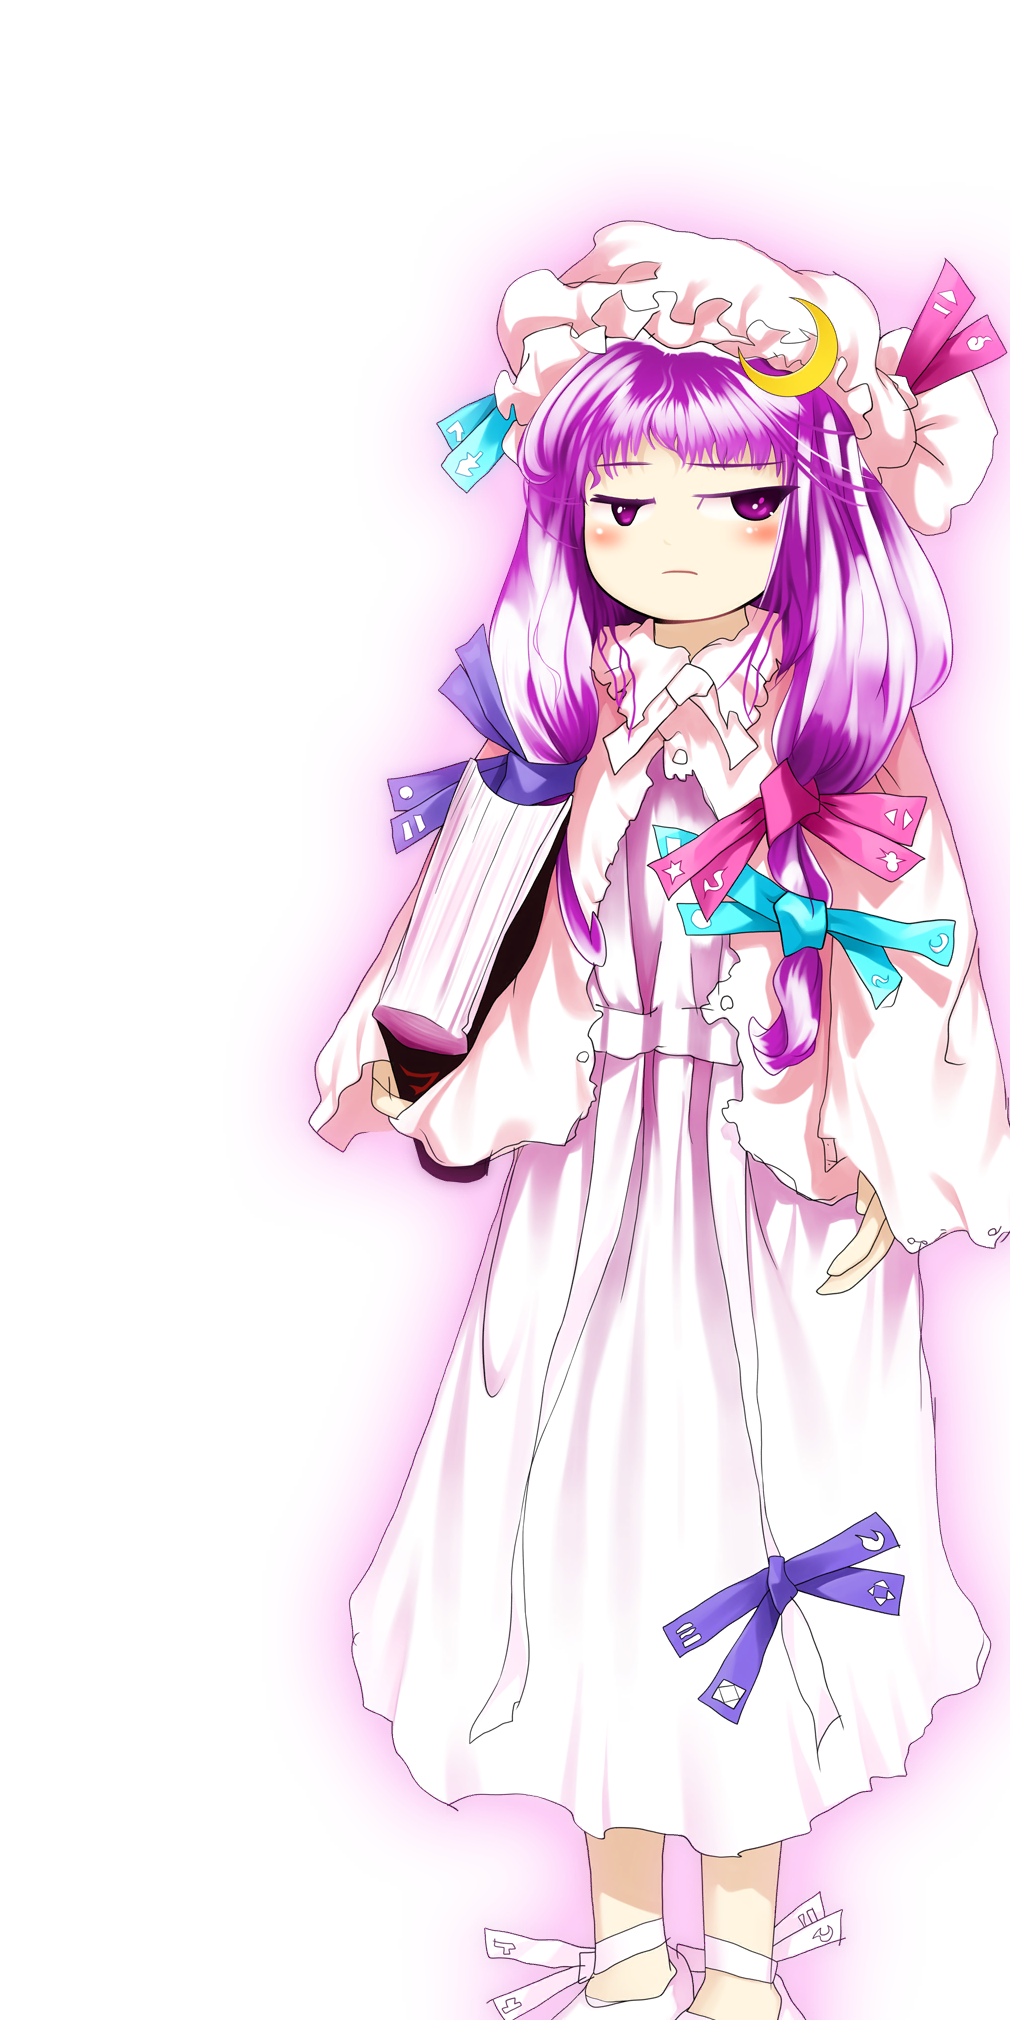
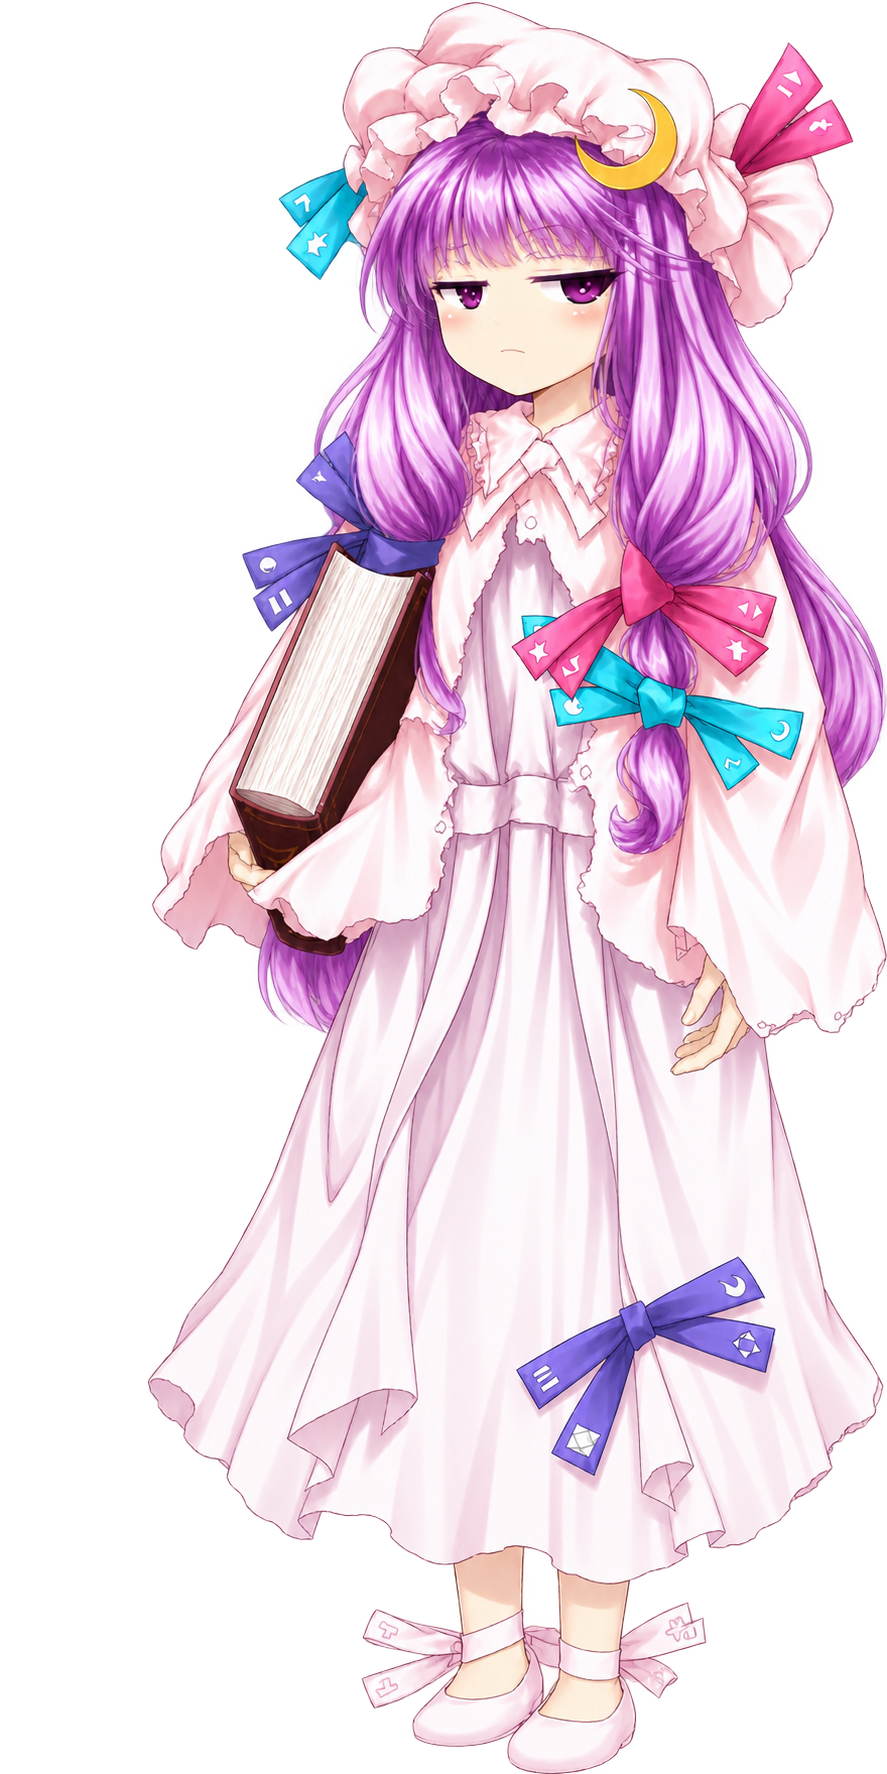
assets(stage): 现代化重绘二至六面角色立绘
替换五位 Boss 的 16 张独立差分及六面复用的两张咲夜立绘，保持原有姿态、神态、角色装饰和战损细节；手部按自然掌指比例重新绘制，蕾米莉亚两张差分补齐完整覆肩短袖。

保留透明通道、原文件名和差分编号，同步生成提示词、源图溯源、验收记录及素材注释。

验证：Debug 构建、CTest 2/2、全部 34 个已注册立绘路径的透明通道/GPU 加载/取景/卸载检查、整组视觉复核及咲夜复用文件一致性检查均通过。

diff --git a/src/stages/stage2/manifest.cpp b/src/stages/stage2/manifest.cpp
@@ -1,4 +1,4 @@
-// 本文件将二面演员、琪露诺原包立绘及本关音乐绑定到独立素材清单，公共玩家槽由共享模块提供。
+// 本文件将二面演员、琪露诺原姿态现代重绘立绘及本关音乐绑定到独立素材清单，公共玩家槽由共享模块提供。
 #include "stages/stage2/data.hpp"
 #include "stages/stage2/ids.hpp"
 #include "stages/common/assets.hpp"

diff --git a/docs/STAGE_PORTRAITS.md b/docs/STAGE_PORTRAITS.md
@@ -1,0 +1,26 @@
+# 已接入立绘的现代重绘
+
+全关对话沿用原有差分编号和动作，使用统一的现代日系插画画风。重绘只替换对话及符卡 PNG；战斗本体仍使用原始 DDS/ANM。
+
+| 角色 | 独立差分 | 保留的重点 |
+|---|---:|---|
+| 灵梦 | 6 | 已有现代重绘，红白装束、头结、侧发饰与原动作/神态 |
+| 魔理沙 | 6 | 已有现代重绘，魔女帽、金发、围裙与原动作/神态 |
+| 露米娅 | 4 | 已有现代重绘，红结、黑白衣装、平伸双臂与原神态 |
+| 琪露诺 | 2 | 蓝色大头结、冰晶翼、红领结、裙摆锯齿、托掌手势及微笑/生气差分 |
+| 红美铃 | 4 | 「龍」字星形帽徽、红发双辫黑结、盘扣、回纹边饰、腕环、提裙手势及战损绷带 |
+| 帕秋莉 | 4 | 新月帽饰、原色彩带及纹样、长裙、持书/举书遮脸、半睁眼与战损表情 |
+| 咲夜 | 4 | 女仆头饰、双辫绿结、绿领结、围裙、三把飞刀、腿部刀鞘及交叠手势 |
+| 蕾米莉亚 | 2 | 完整覆肩短袖、帽上红结、蝙蝠翼、红色后腰大结、颈饰、腕部褶边、垂腕抬手及睁眼/闭眼神态 |
+
+32 张独立差分对应 34 个已注册 PNG 路径；其中咲夜的两个道中差分同时用于五、六面，文件内容保持一致。原有 `dialogueCrop` 继续取上部，符卡使用完整立绘；PNG 的透明边界由资源加载器按原规则处理。
+
+本次新生成 16 张独立差分并替换 18 个文件。生成方式为内置 `image_gen`，完整提示及溯源见 [生成记录](../assets/source/portraits/stages2_6/README.md) 和 [提示词](../assets/source/portraits/stages2_6/prompts.json)。输入为 `0189d78` 中的原姿态 PNG；角色自身装饰、表情符号和战损细节保留，原图矩形底色和作者署名移除。
+
+手部也按现代画风重新绘制：保留手势、手腕角度与持书/持刀关系，重构手掌和指节，校对指长、五指结构、遮挡及接触。对蕾米莉亚原图偏长的手指另做局部修订，保留抬手和垂腕动作。
+
+## 验收
+
+Debug 游戏与核心测试目标构建通过，CTest 2/2 通过。使用正式关卡清单与 `AssetManager` 逐关加载全部 34 个立绘路径，验证 PNG 解码、有效透明区域、GPU 纹理、全身/正式对话取景及关卡卸载；16 张新生成差分和咲夜的两份重复文件另核对溯源及内容一致性。
+
+已人工复核二至六面整组全身及对话裁剪预览，包括不同表情、手部和持物关系、帕秋莉遮脸读书、美铃/咲夜战损以及蕾米莉亚自然手型和两肩覆袖。临时预览与检查报告不进入运行包。

diff --git a/assets/source/portraits/stages2_6/README.md b/assets/source/portraits/stages2_6/README.md
@@ -1,0 +1,13 @@
+# 二至六面现代立绘重绘
+
+使用内置 `image_gen`，以接入时的原图作为姿态、神态和装饰依据，以已有灵梦现代重绘作为整体画风参考；同角色的后续差分同时参考其第一张现代立绘，保持脸型、发型和服装一致。
+
+本组补齐琪露诺 2 张、美铃 4 张、帕秋莉 4 张、咲夜 4 张、蕾米莉亚 2 张，共 16 张独立差分。六面道中咲夜的 2 个文件复用五面的相同重绘，总共替换 18 个运行时 PNG。已有灵梦 6 张、魔理沙 6 张、露米娅 4 张现代重绘继续使用，所有已接入对话立绘均为现代画风。
+
+原参考图可从提交 `0189d78` 的相同运行时路径恢复；该提交包含原包 DDS/ANM 导出的立绘。原图的矩形底色、留白和作者署名不属于角色装饰，重绘中移除。表情符号、战损绷带、服装破损和角色固有装饰保留。图像输出保留真实 Alpha，不对结果进行脚本抠图或重新绘制。
+
+手部独立按自然手型重绘，保持原有动作和持物关系；手掌、指节、弯曲和遮挡重新构造，不沿用旧图过长、过细的指形。蕾米莉亚另有一次只针对双手的修订，提示和中间版本记录在 `prompts.json`。
+
+按用户确认的角色服装要求，蕾米莉亚两张差分均采用完整覆肩的浅粉色短袖，不使用露肩设计。最终覆肩修订保留已修正的自然手型、原抬手动作、帽饰、红结、蝙蝠翼和睁眼/闭眼神态。
+
+`prompts.json` 保存实际提示词、输入来源与生成文件名；运行时文件位于 `assets/runtime/stages/stage2` 至 `stage6` 各自的 `portraits` 目录。游戏继续沿用原差分编号及文件名，不改变对白、演出时序和战斗动画。

diff --git a/docs/STAGE1_ASSETS.md b/docs/STAGE1_ASSETS.md
@@ -2,6 +2,8 @@
 
 标题与对话立绘使用内置 ImageGen 生成；游戏界面文字与悬浮卡片由程序绘制，战斗角色、弹幕、道具及击破动画使用本机新典的原始素材。战斗 DDS/ANM 的完整目录与接口见 [原始战斗素材接口](NATIVE_BATTLE_ASSETS.md)。
 
+二至六面现已使用同一画风的现代重绘；全角色差分、装饰和手部重绘范围见 [立绘总览](STAGE_PORTRAITS.md)。
+
 | 文件 | 用途与生成提示 |
 |---|---|
 | `assets/runtime/common/title_reimu_modern.png` | 旧合成首页插画，仅在独立图层缺失时回退使用 |
